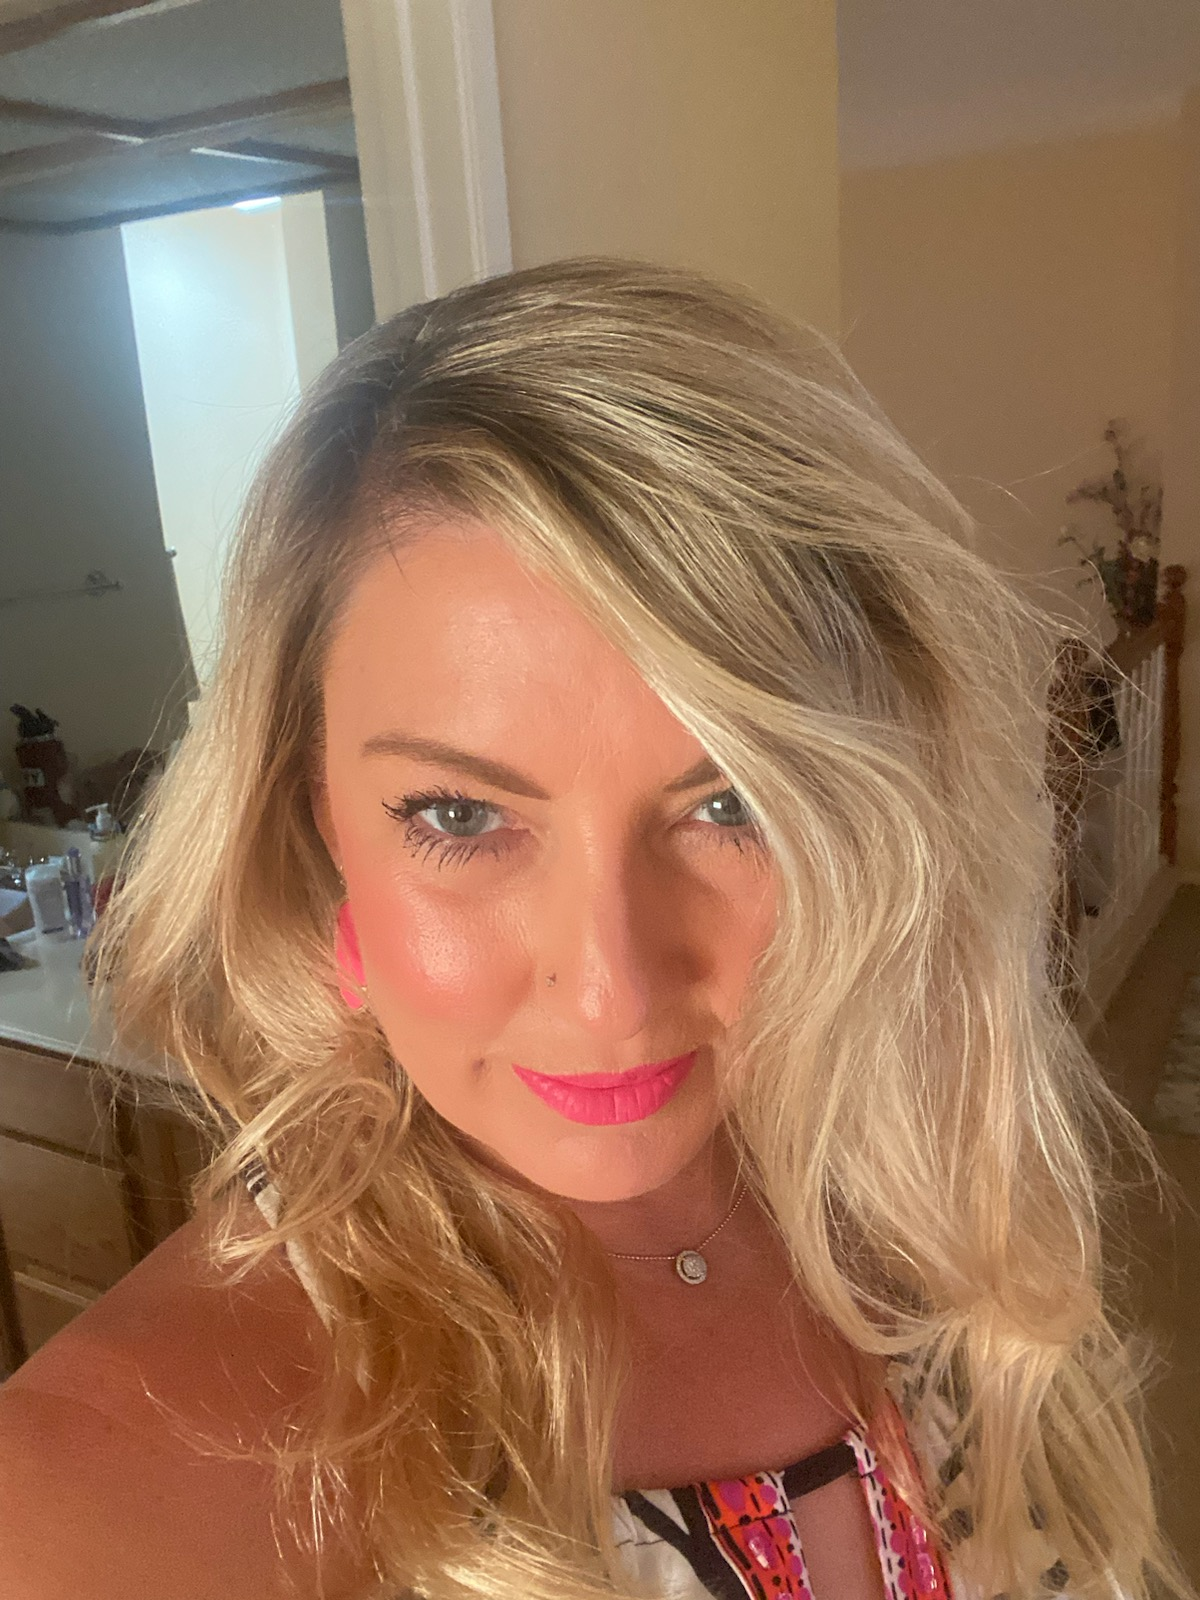
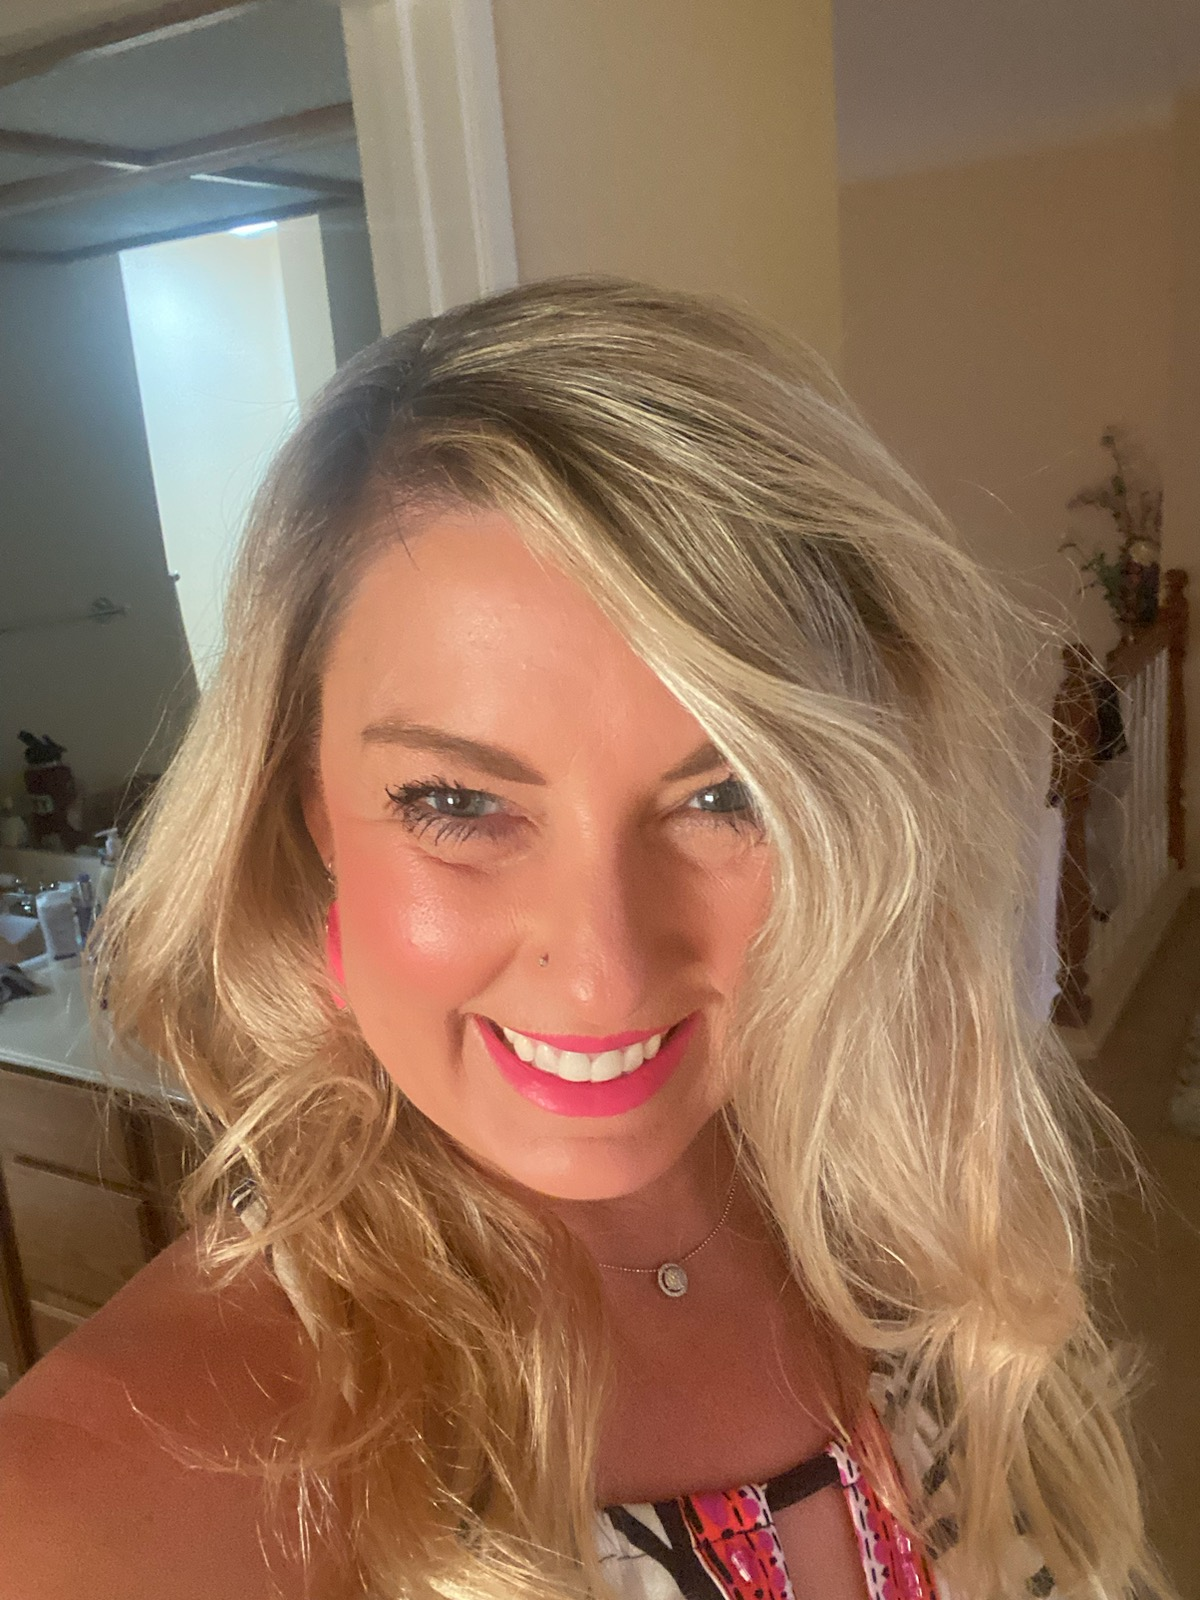
corrected spelling errors, updated kristin pic

diff --git a/src/features/home/components/what/What.jsx b/src/features/home/components/what/What.jsx
@@ -19,12 +19,12 @@ const What = () => {
 				<ul>
 					<li>Options for payroll/W-2/contract agreements</li>
 					<li>Reference checks</li>
-					<li>Through background check on selected nanny</li>
+					<li>Thorough background check on selected nanny</li>
 					<li>Access to staff after hours and on weekends</li>
 				</ul>
 			</div>
 			<p className='headline closer'>
-				Whether your child is flourishing, and you have no concerns, or
+				Whether your child is flourishing and you have no concerns, or
 				struggling to hit some of their major milestones, we can help!
 			</p>
 

diff --git a/src/features/home/components/contact/Contact.jsx b/src/features/home/components/contact/Contact.jsx
@@ -109,7 +109,7 @@ const Contact = () => {
 					className='link email-link sub-headline'
 					to='mailto:kristin@matchmakingnannyservices.com'
 				>
-					kristen@matchmakingnannyservices.com
+					kristin@matchmakingnannyservices.com
 				</Link>
 			</div>
 			<div className='row contact-row'>
